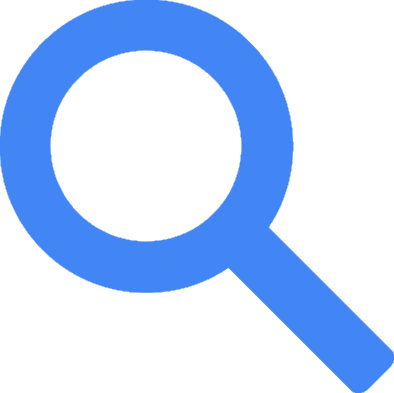
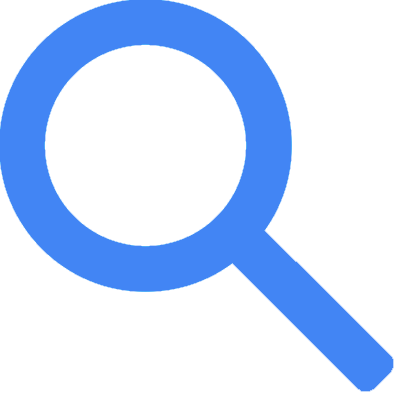
update images style

diff --git a/style.css b/style.css
@@ -69,7 +69,7 @@ header {
 
 #magni-glass {
     position: relative;
-    right: 47.8%;
+    right: 47.7%;
     top: 6px;
     padding: 11px;
 }
